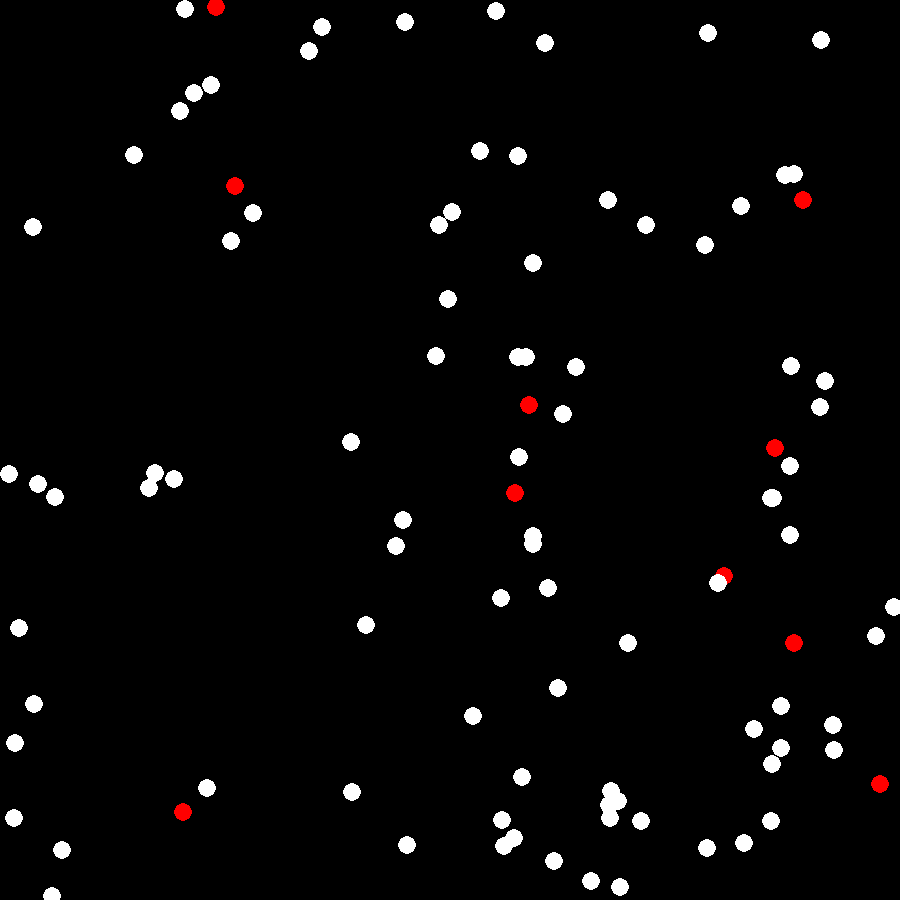
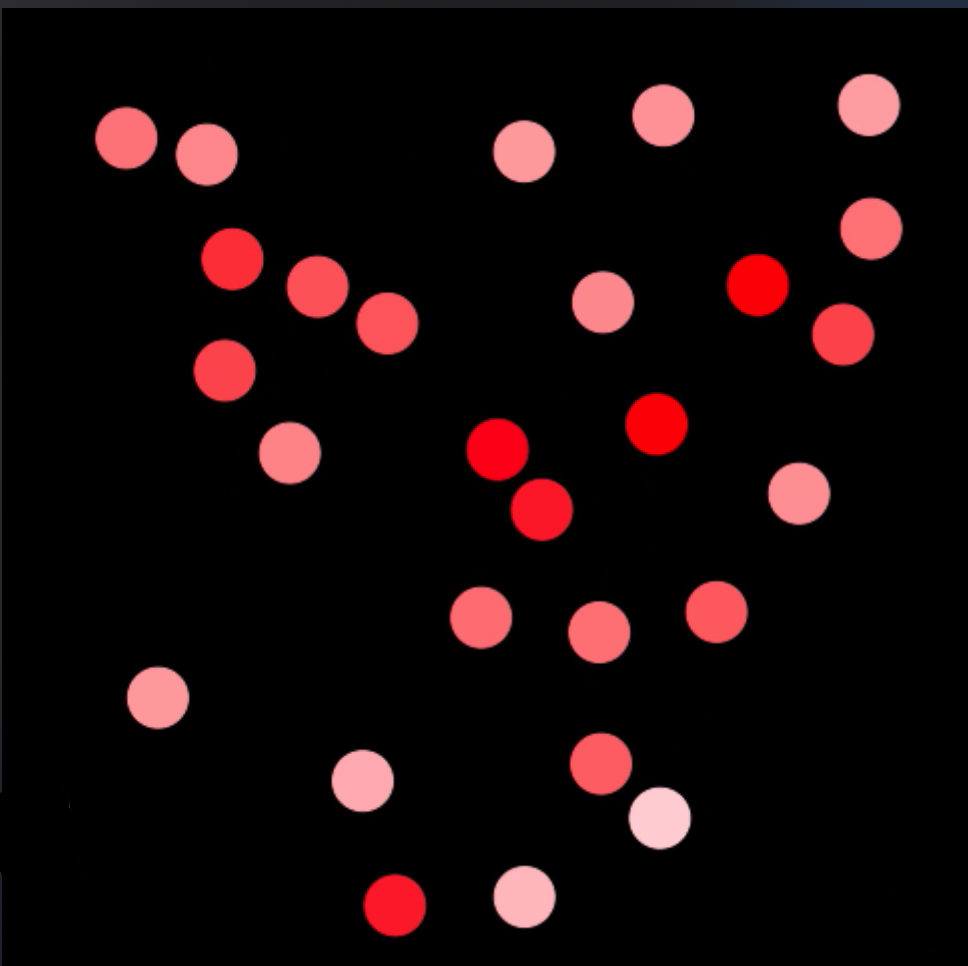
added thumbnails

diff --git a/FlaskApp/static/js/comp_phys/gas_in_a_box/thermal_motion.js b/FlaskApp/static/js/comp_phys/gas_in_a_box/thermal_motion.js
@@ -8,12 +8,12 @@ const m = 1;
 
 // PARAMETERS
 
-const nr_of_particles = 120;
-const particle_radius = 8;
+const nr_of_particles = 30;
+const particle_radius = 15;
 var v0 = 5;
 
 const fps_goal = 60;
-const max_speed = 1.5 * v0;
+const max_speed = 1 * v0;
 
 // OTHER VARIABLES
 
